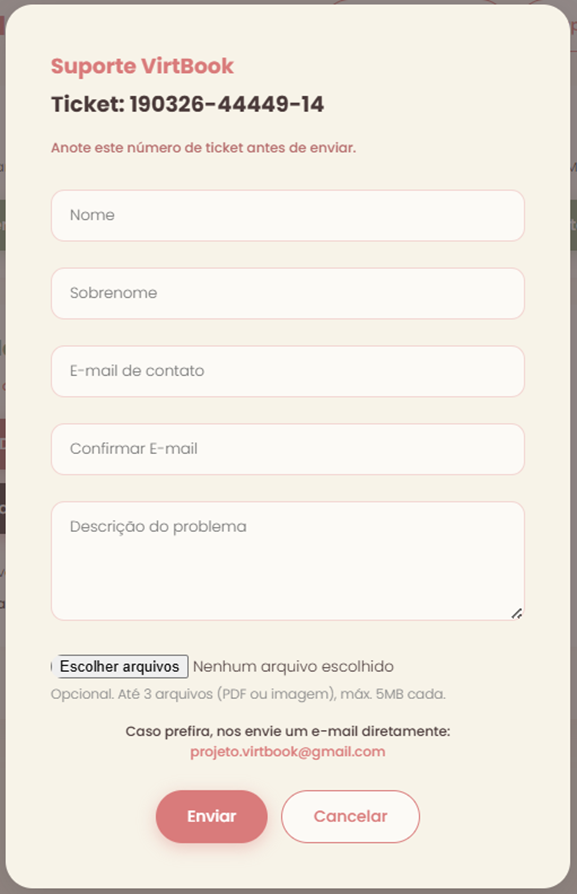
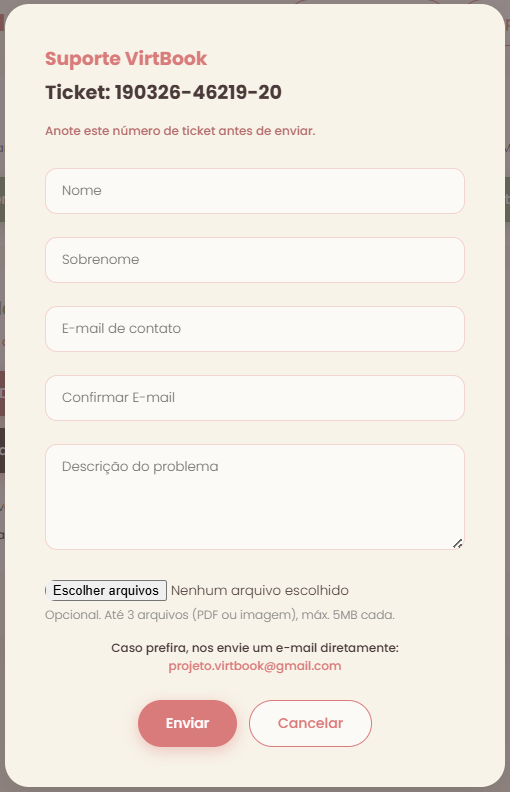
Corrigido sizing dos print 3, 4 e 6 e trocado print6.png

diff --git a/sites/manual-de-uso.html b/sites/manual-de-uso.html
@@ -23,12 +23,17 @@
         a:hover { color: #c46a6a; }
         
         .print-img {
-            width: 100%;
+            max-width: 100%;
             height: auto;
             border-radius: 12px;
             box-shadow: 0 4px 15px rgba(0, 0, 0, 0.1);
-            margin: 25px 0;
+            margin: 25px auto;
             display: block;
+        }
+
+        .img-dialog {
+            max-width: 450px;
+            width: 100%;
         }
         
         .alert-box { background: rgba(217, 123, 123, 0.05); border-left: 6px solid #D97B7B; padding: 25px; border-radius: 0 16px 16px 0; margin: 35px 0; }
@@ -97,8 +102,8 @@
             <p>No primeiro uso da máquina, serão exibidos alguns avisos de certificado e de confiabilidade.</p>
             <p>Certifique-se de marcar as caixas de <strong>“Não mostrar novamente”</strong> e de confirmar a conexão.</p>
             
-            <img src="https://danimcarv.github.io/virtbook/img/print3.png" class="print-img">
-            <img src="https://danimcarv.github.io/virtbook/img/print4.png" class="print-img">
+            <img src="https://danimcarv.github.io/virtbook/img/print3.png" class="print-img img-dialog">
+            <img src="https://danimcarv.github.io/virtbook/img/print4.png" class="print-img img-dialog">
             
             <p>Quando for solicitado, insira a <strong>senha do Windows</strong> que você escolheu durante a criação da máquina.</p>
             <p>No primeiro login, o sistema pode demorar um pouco para iniciar (de 10 a 15 minutos). <strong>Isso é normal e só ocorre no primeiro uso da máquina.</strong></p>
@@ -163,7 +168,7 @@
             <p>Para configurar, deixamos na sua Área de Trabalho um arquivo chamado <strong>configurar_discos</strong>. Ele vai abrir uma “tela preta”, como nos computadores antigos, que vai te guiar pelo processo.</p>
             <p>Basta ir digitando as informações solicitadas e apertando Enter.</p>
             
-            <img src="https://danimcarv.github.io/virtbook/img/print7.png" class="print-img">
+            <img src="https://danimcarv.github.io/virtbook/img/print7.png" class="print-img img-dialog">
             
             <p>Ao final do processo, serão criados os discos <strong>M: para o Mega</strong>, e/ou <strong>G: para o Google Drive</strong>. Interessante também lembrar que os arquivos que estiverem nesses discos também ficarão disponíveis na sua conta online do Mega ou do Google Drive.</p>
             
